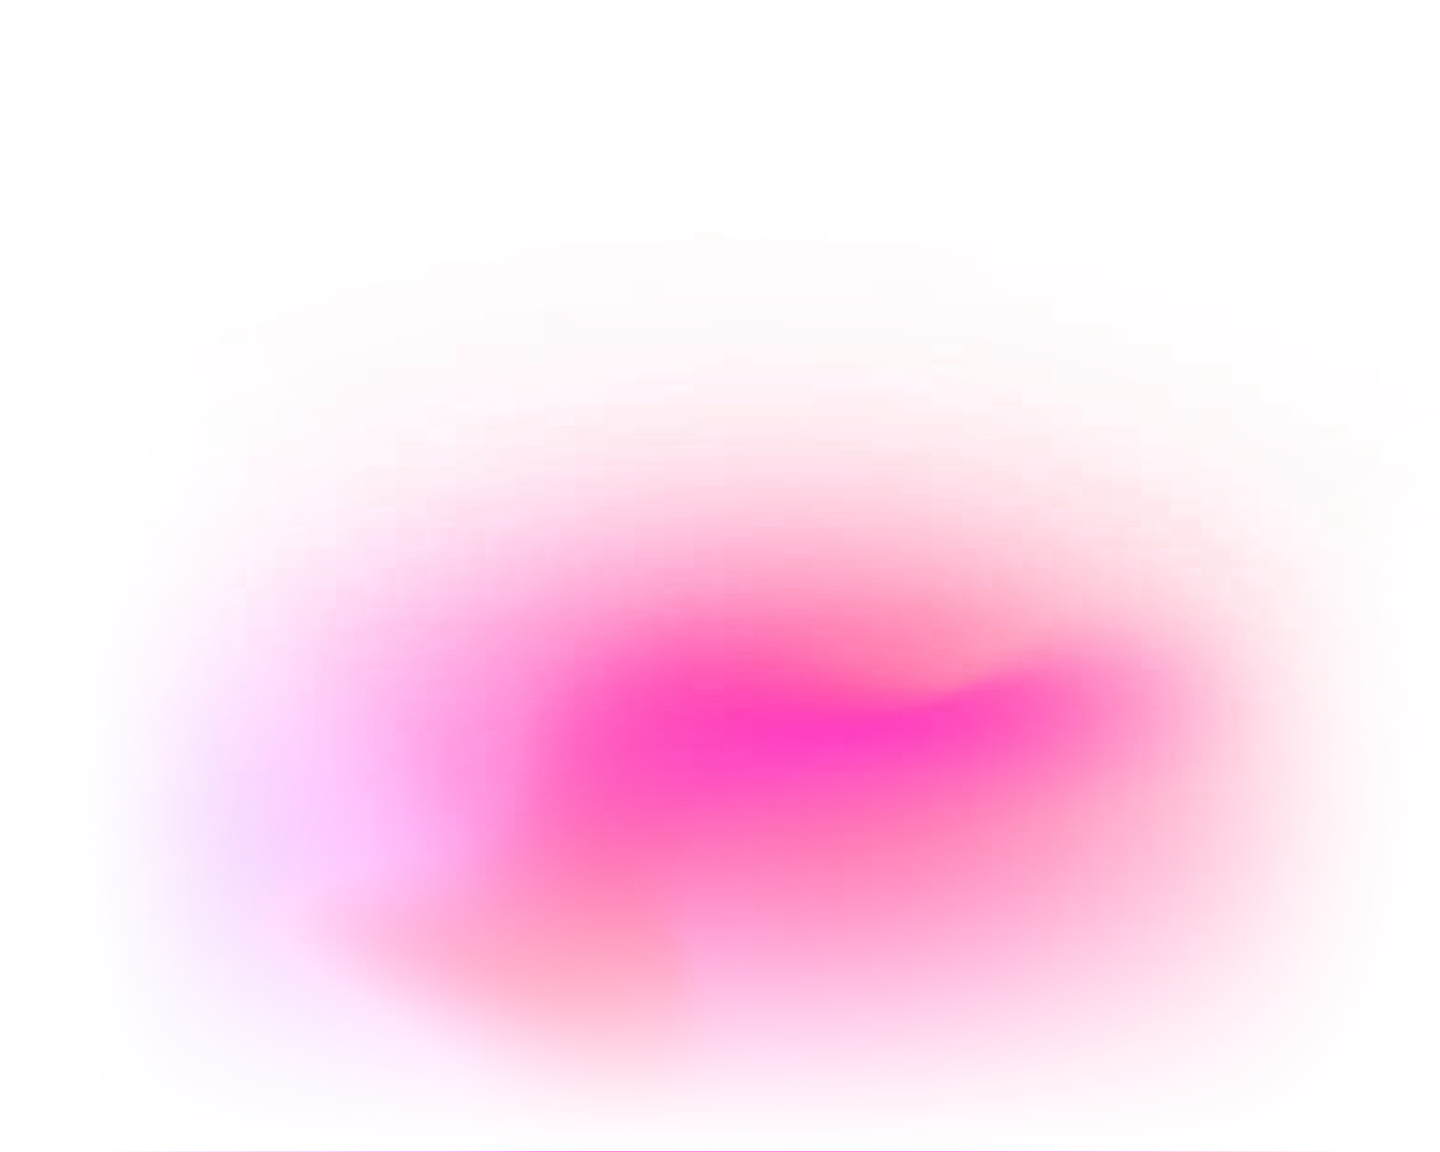
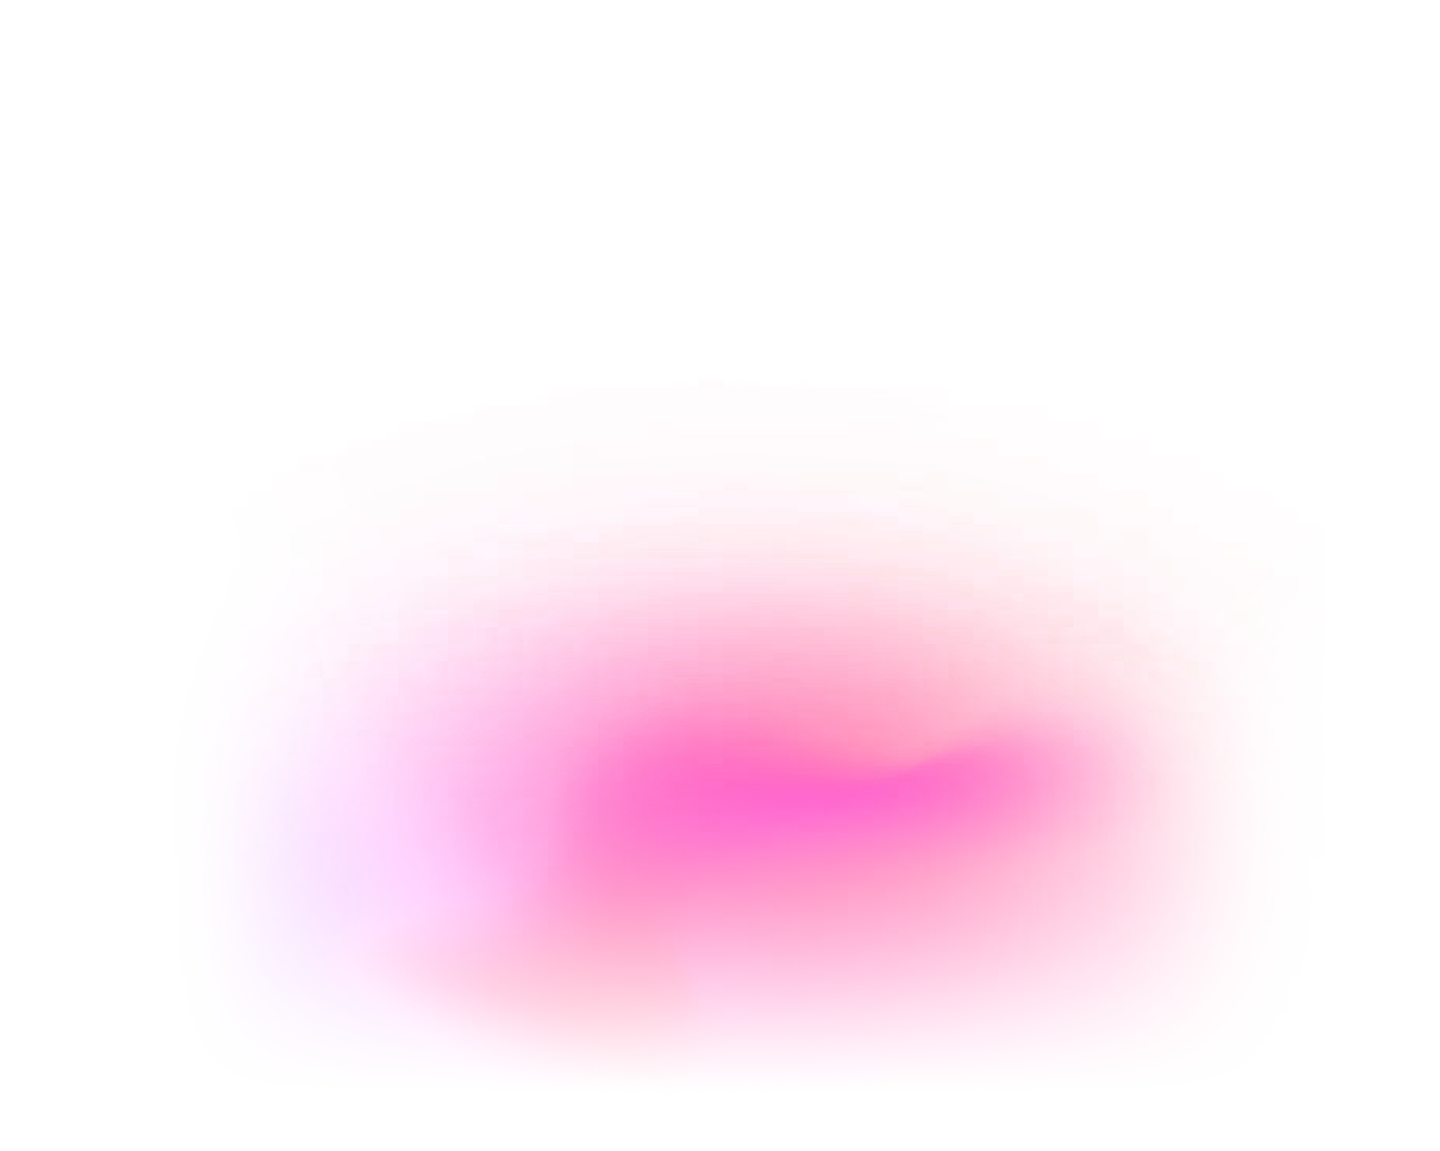
배경 수정

Changed region(s): [[0.125, 0.3953, 0.9062, 0.8514]]

diff --git a/index.html b/index.html
@@ -56,11 +56,6 @@
         }
 
         @media (max-width: 1400px) {
-            #section2 {
-                background-image: url('img/bg2_m.png');
-                background-position: center -100px;
-            }
-
             aside {
                 display: none !important;
             }
@@ -138,7 +133,7 @@
             style="opacity: 0;">
             <div class="flex flex-col items-center justify-between font-semibold">
                 <img src="img/ui1_m.png" alt="new-wrtn"
-                    class="block lg:hidden w-[260px] h-auto rounded-[16px] mb-[36px]">
+                    class="block lg:hidden min-w-[394px] w-[394px] h-auto rounded-[16px] mb-[51px]">
                 <p class="text-[16px] text-[#F28C3E] mb-[12px]">새로운 뤼튼</p>
                 <p class="text-[36px] lg:text-[38px] text-[#353A40] leading-[140%] text-center mb-[18px]">뤼튼의 모든
                     기능이<br>나를 위한 단 하나의
@@ -146,7 +141,7 @@
                 <p class="text-[16px] text-[#858E95] leading-[150%] text-center mb-[50px]">더 정교한 문맥 이해와 자연스러운 문장 구성이
                     가능하도록 AI 모델이 업그레이드되었습니다.<br class="hidden lg:block">
                     이를 통해 보다 창의적이고 목적에 맞는 콘텐츠 생성이 가능해졌습니다.</p>
-                <img src="img/ui1.png" alt="new-wrtn" class="hidden lg:block min-w-[1074px] h-auto">
+                <img src="img/ui1.png" alt="new-wrtn" class="hidden lg:block min-w-[990px] h-auto">
             </div>
         </section>
         <section id="section3" class="w-full bg-[#151515] pt-[150px] lg:pt-[190px] pb-[175px] lg:pb-[260px]">
@@ -951,7 +946,8 @@
             var asideLocked = false;
             // 브라우저 창의 가로와 세로 중 더 큰 값을 기준으로 초기 반지름 설정
             var initialRadius = Math.max($(window).width(), $(window).height()) / 1.5;
-            const minRadius = 30;
+            
+            var minRadius = calculateMinRadius();
             var maxScroll;
 
             $('.faq-item').on('click', function () {
@@ -961,6 +957,9 @@
                 $(this).find('.toggle-arrow').toggleClass('rotate-90');
             });
             // 최대 스크롤 위치 계산 함수
+            function calculateMinRadius() {
+                return $(window).width() >= 1024 ? 30 : 28;
+            }
             function calculateMaxScroll() {
                 var uiImage;
                 if ($(window).width() >= 1024) { // lg 기준 (1024px)
@@ -972,31 +971,30 @@
                 var uiTop = uiImage.offset().top;
                 var uiCenter = uiTop + (uiHeight / 2);
                 var windowHeight = $(window).height();
-                var offset = $(window).width() >= 1024 ? 24 : 55;
+                var offset = $(window).width() >= 1024 ? 24 : 50;
                 var result = uiCenter - (windowHeight / 2) - (minRadius * 2) + offset;
+                console.log(result);
                 return result;
             }
 
             // 이미지 로드 시 최대 스크롤 계산
             $('img[src="img/ui1.png"], img[src="img/ui1_m.png"]').on('load', function () {
+                minRadius = calculateMinRadius();
                 maxScroll = calculateMaxScroll();
             });
 
             // 이미지가 이미 로드된 경우 최대 스크롤 계산
             if (($(window).width() >= 1024 && $('img[src="img/ui1.png"]').complete) ||
                 ($(window).width() < 1024 && $('img[src="img/ui1_m.png"]').complete)) {
+                minRadius = calculateMinRadius();
                 maxScroll = calculateMaxScroll();
             }
 
             // 창 크기 변경 시 값 재계산
             $(window).resize(function () {
-                // 모바일에서 가로 크기가 변경되지 않으면 무시
-                var prevWidth = $(window).width();
-                if (prevWidth < 1024 && prevWidth === $(window).width()) {
-                    return;
-                }
                 // 브라우저 창의 가로와 세로 중 더 큰 값을 기준으로 반지름 재설정
                 initialRadius = Math.max($(window).width(), $(window).height()) / 1.5;
+                minRadius = calculateMinRadius();
                 maxScroll = calculateMaxScroll();
                 $(window).trigger('scroll');
             });
@@ -1122,11 +1120,15 @@
                     });
                 }
 
+                // 최소 반지름 값이 없으면 계산
+                if (!minRadius) {
+                    minRadius = calculateMinRadius();
+                }
+
                 // 최대 스크롤 값이 없으면 계산
                 if (!maxScroll) {
                     maxScroll = calculateMaxScroll();
                 }
-
                 // 비디오 원형 크기 및 스타일 업데이트
                 var newRadius;
                 if (scrollPos >= maxScroll) {

diff --git a/css/output.css b/css/output.css
@@ -425,6 +425,9 @@
   .mb-\[50px\] {
     margin-bottom: 50px;
   }
+  .mb-\[51px\] {
+    margin-bottom: 51px;
+  }
   .mb-\[52px\] {
     margin-bottom: 52px;
   }
@@ -638,6 +641,9 @@
   .w-\[230px\] {
     width: 230px;
   }
+  .w-\[242px\] {
+    width: 242px;
+  }
   .w-\[260px\] {
     width: 260px;
   }
@@ -647,8 +653,14 @@
   .w-\[373px\] {
     width: 373px;
   }
+  .w-\[394px\] {
+    width: 394px;
+  }
   .w-\[400px\] {
     width: 400px;
+  }
+  .w-\[402px\] {
+    width: 402px;
   }
   .w-\[467px\] {
     width: 467px;
@@ -683,8 +695,14 @@
   .min-w-\[300px\] {
     min-width: 300px;
   }
+  .min-w-\[394px\] {
+    min-width: 394px;
+  }
   .min-w-\[640px\] {
     min-width: 640px;
+  }
+  .min-w-\[990px\] {
+    min-width: 990px;
   }
   .min-w-\[1074px\] {
     min-width: 1074px;
@@ -1121,6 +1139,9 @@
   .pb-\[30px\] {
     padding-bottom: 30px;
   }
+  .pb-\[51px\] {
+    padding-bottom: 51px;
+  }
   .pb-\[60px\] {
     padding-bottom: 60px;
   }
@@ -1381,6 +1402,9 @@
   }
   .opacity-30 {
     opacity: 30%;
+  }
+  .opacity-50 {
+    opacity: 50%;
   }
   .opacity-60 {
     opacity: 60%;
